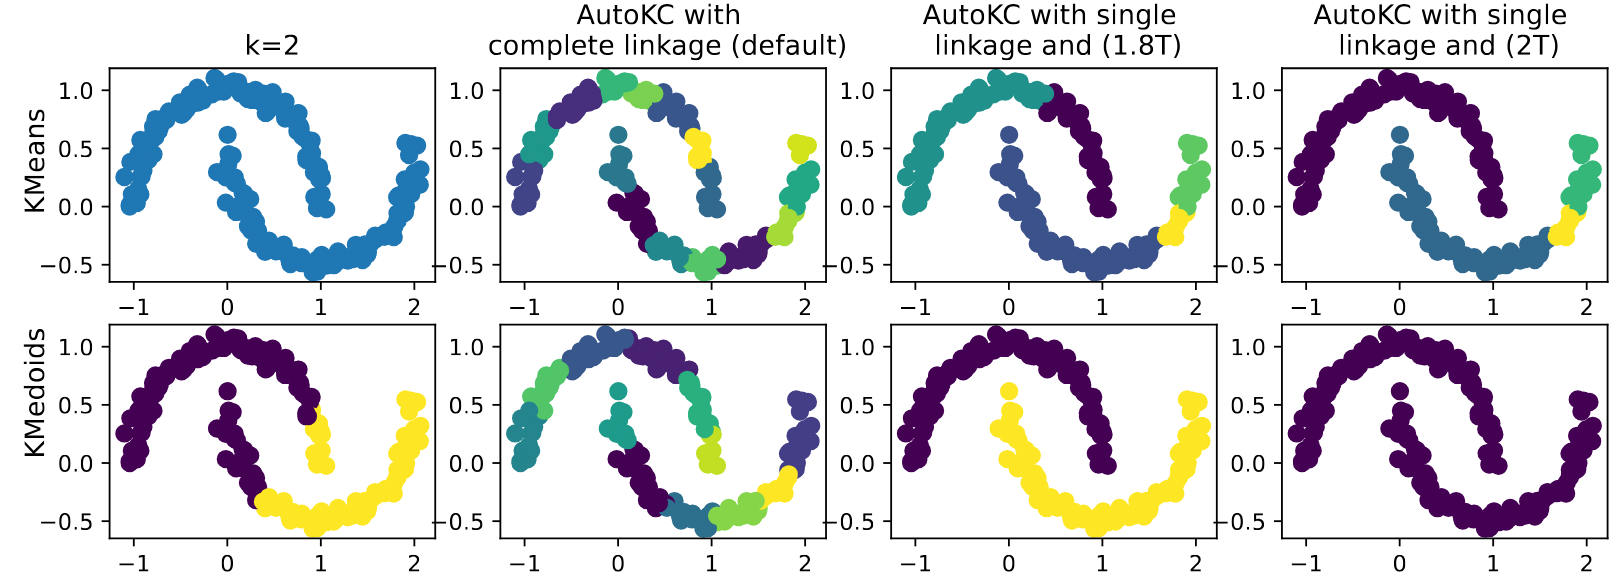
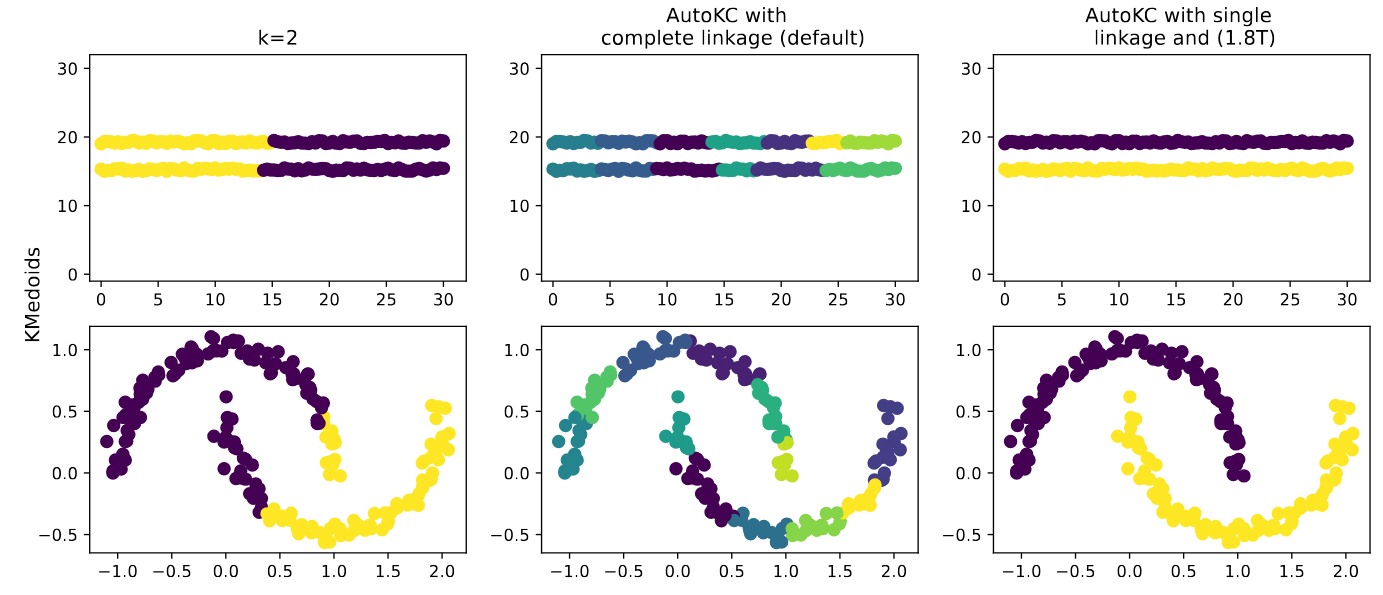
Adding additional plots

diff --git a/Examples/Baguette_shape_clustering/check_autoKC_clustering.py b/Examples/Baguette_shape_clustering/check_autoKC_clustering.py
@@ -1,3 +1,5 @@
+import random
+
 import matplotlib.pyplot as plt
 import numpy as np
 from sklearn import cluster, datasets, mixture
@@ -27,7 +29,7 @@ def perform_clustering(model,distance_matrix,full_dist_between_clusters,combine_
                                                                   jaccard_dist,
                                                                   #merge_clust=2.5,
                                                                   merge_clust=merge_clust,
-                                                                  verbose=False)
+                                                                  verbose=True)
     return final_labels,distance_matrix,centers
 
 
@@ -41,29 +43,56 @@ def apply_clustering(model,data,raw_data,full_dist_between_clusters,ax,merge_clu
     print(len(set(final_labels)))
     ax.scatter(raw_data[:, 0], raw_data[:, 1], c=final_labels, cmap='viridis', s=50)
 
+def baguette():
+    random.seed(42)
+    # Parameters for the clusters
+    n_samples = 100  # Number of samples per cluster
+    length = 30  # Length of the baguette
+    width = 0.5  # Width of the baguette (noise level)
+    distance = 4  # Distance between the centroids of the two clusters
 
+    # Generate the first baguette-shaped cluster
+    x1 = np.linspace(0, length, n_samples)
+    y1 = [random.random()*width+length/2 for i in x1]
+    cluster1 = np.column_stack((x1, y1))
 
-noisy_moons = datasets.make_moons(n_samples=200, noise=0.05, random_state=42)
+    # Generate the second baguette-shaped cluster
+    x2 = np.linspace(0, length, n_samples)
+    y2 = [random.random()*width+distance+length/2 for i in x2]
+    cluster2 = np.column_stack((x2, y2))
 
-fig, ax = plt.subplots(2, 4, figsize=(12, 6))
+    # Combine the clusters
+    data = np.vstack((cluster1, cluster2))
+    return data
+# Anisotropicly distributed data
+X=baguette()
+noisy_moons = (X, X)
 
-kmeans_model=Kmeans(2)
-labels = kmeans_model.fit(noisy_moons[0], None)
+fig, ax = plt.subplots(2, 3, figsize=(12, 6))
 
+kmdeoids=KMedoids(2)
+DM=calcualte_Distance_Matrix(noisy_moons[0],euclidean)
+
+labels = kmdeoids.fit(DM, None)
 ax[0][0].set_title('k=2')
 ax[0][1].set_title('AutoKC with \n complete linkage (default)')
 ax[0][2].set_title('AutoKC with single \n linkage and (1.8T)')
-ax[0][3].set_title('AutoKC with single \n linkage and (2T)')
 
-
+ax[0][0].set_ylim(-1,32)
+ax[0][0].set_xlim(-1,32)
+ax[0][1].set_ylim(-1,32)
+ax[0][1].set_xlim(-1,32)
+ax[0][2].set_ylim(-1,32)
+ax[0][2].set_xlim(-1,32)
 
 
 ax[0][0].scatter(noisy_moons[0][:, 0], noisy_moons[0][:, 1], c=labels, cmap='viridis', s=50)
 apply_clustering(Kmeans,noisy_moons[0],noisy_moons[0],full_dist_between_clusters,ax[0][1],merge_clust=2)
 apply_clustering(Kmeans,noisy_moons[0],noisy_moons[0],full_min_dist_between_clusters,ax[0][2])
-apply_clustering(Kmeans,noisy_moons[0],noisy_moons[0],full_min_dist_between_clusters,ax[0][3],merge_clust=2)
 
+####################################################33
 
+noisy_moons = datasets.make_moons(n_samples=200, noise=0.05, random_state=42)
 kmdeoids=KMedoids(2)
 DM=calcualte_Distance_Matrix(noisy_moons[0],euclidean)
 labels = kmdeoids.fit(DM, None)
@@ -73,9 +102,7 @@ ax[1][0].scatter(noisy_moons[0][:, 0], noisy_moons[0][:, 1], c=labels, cmap='vir
 apply_clustering(KMedoids,DM,noisy_moons[0],full_dist_between_clusters,ax[1][1],merge_clust=2)
 
 apply_clustering(KMedoids,DM,noisy_moons[0],full_min_dist_between_clusters,ax[1][2])
-apply_clustering(KMedoids,DM,noisy_moons[0],full_min_dist_between_clusters,ax[1][3],merge_clust=2)
 
-fig.text(0.05, 0.65, "KMeans", ha="center",fontsize=12,rotation=90)
-fig.text(0.05, 0.25, "KMedoids", ha="center",fontsize=12,rotation=90)
+fig.text(0.05, 0.45, "KMedoids", ha="center",fontsize=12,rotation=90)
 
 plt.show()

diff --git a/plots_and_results/README.md b/plots_and_results/README.md
@@ -1,0 +1,51 @@
+# Additional Figures for BURST effectiveness
+
+## UCR time-series datasets
+
+We use the UCR archive time-series datasets to assess the performance of various 
+clustering approaches. Each dataset consists of a collection of time-series, 
+normalized using z-score, and tagged with ground truth classes. These are 
+treated as streams of time-series data. The UCR time-series benchmark poses 
+a significant challenge for clustering, as indicated by low overall silhouette 
+scores (Euclidean: median = 0.03, IQR = [0.00–0.12]; SBD: median = 0.07, 
+IQR = [0.00–0.23]).
+
+Figure: Shillouette scores for UCR datasets using Euclidean and SBD distances:
+![AutoKC](./figures/shilloutteUCR.png)
+
+
+## BURST strategy performance
+
+Below figure shows the performance of $k$-medoids and $k$-means variants 
+with BURST ($B\_$), compared to $AC$ methods, using both box plots and 
+critical diagrams.  The results highlight the superiority of the BURST 
+framework  over traditional methods, except in the case of the Birch 
+algorithm for the purity metric, as already discussed. Specifically, 
+BURST with $k$-means and $k$-medoids performs similarly to BURST with 
+$k$-Shapes (referred to as BURST). Additionally, when BURST is combined 
+with $k$-medoids, the difference in purity compared to Birch becomes 
+statistically insignificant, whereas it was significant with the original BURST.
+
+![AutoKC](./figures/ARI_Purity_all_B_strategy.png)
+
+## Before and after BURST performance
+
+We assess the performance of BURST using $k$-means and $k$-medoids as baseline 
+methods, in both cases of providing predefined $k$ ($KC$ setting) and using AutoKC for 
+automatic clustering ($AC$ setting). Below figure shows the performance 
+improvement (in the $KC$ setting) in terms of ARI and Purity when the BURST 
+framework is applied to baseline variants. In all cases, BURST results 
+in more wins (i.e., better performance) than the baseline methods. 
+Moreover, in all but one case, BURST leads to statistically significantly 
+better performance. To assess whether BURST results in statistically 
+significant improvements, we perform pairwise comparisons (between 
+performance with and without BURST) using the Wilcoxon test, 
+testing whether the application of BURST yields significantly better results.
+
+![AutoKC](./figures/ARI_PURITY_alldata_gain.png)
+
+Looking at the performance improvement, but this time seperatly on evolving 
+and stationary datasets, we can see that the performance gain is more 
+pronounced on evolving datasets.
+
+![AutoKC](./figures/ARI_EVOLVING_STATIONARY_GAIN.png)

diff --git a/README.md b/README.md
@@ -87,7 +87,7 @@ This repository contains the AutoKC algorithm, which is a clustering algorithm t
 Example of AutoKC on baguette-shaped clusters (source: Examples/Baguette_shape_clustering/check_autoKC_clustering.py):
 ![AutoKC](/images/AutoKC_baguette.png)
 
-
+[Redirect here for BURST effectiveness evaluation plots.](plots_and_results/README.md)
 ## Acknowledgment
 
 ### Repositories:
